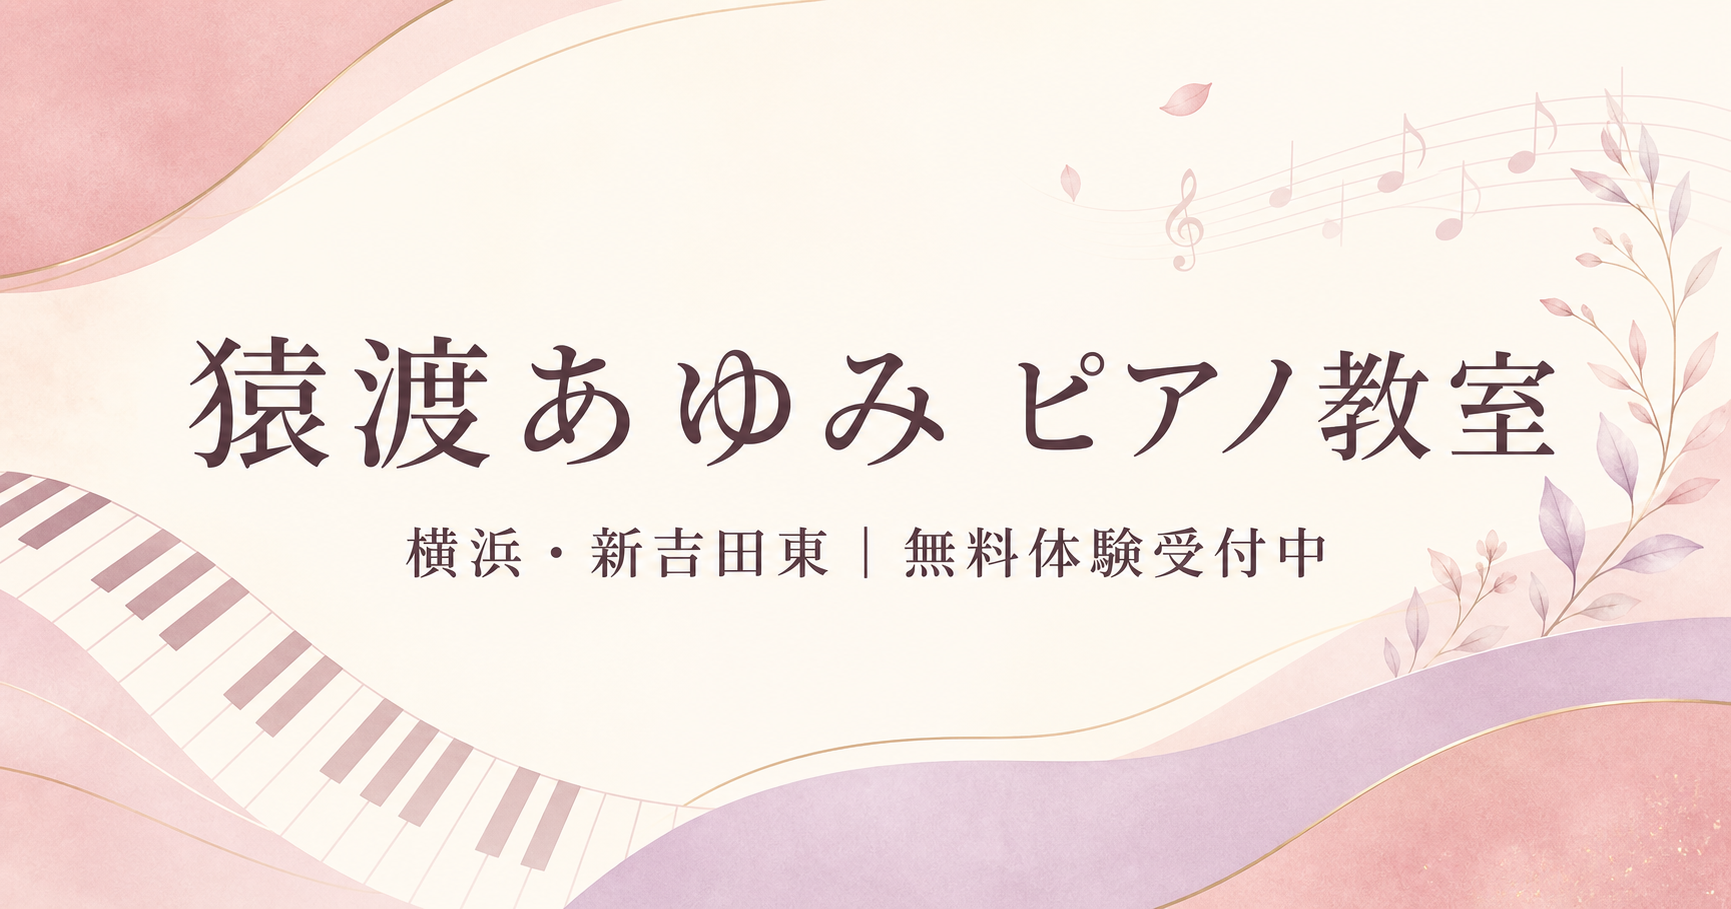
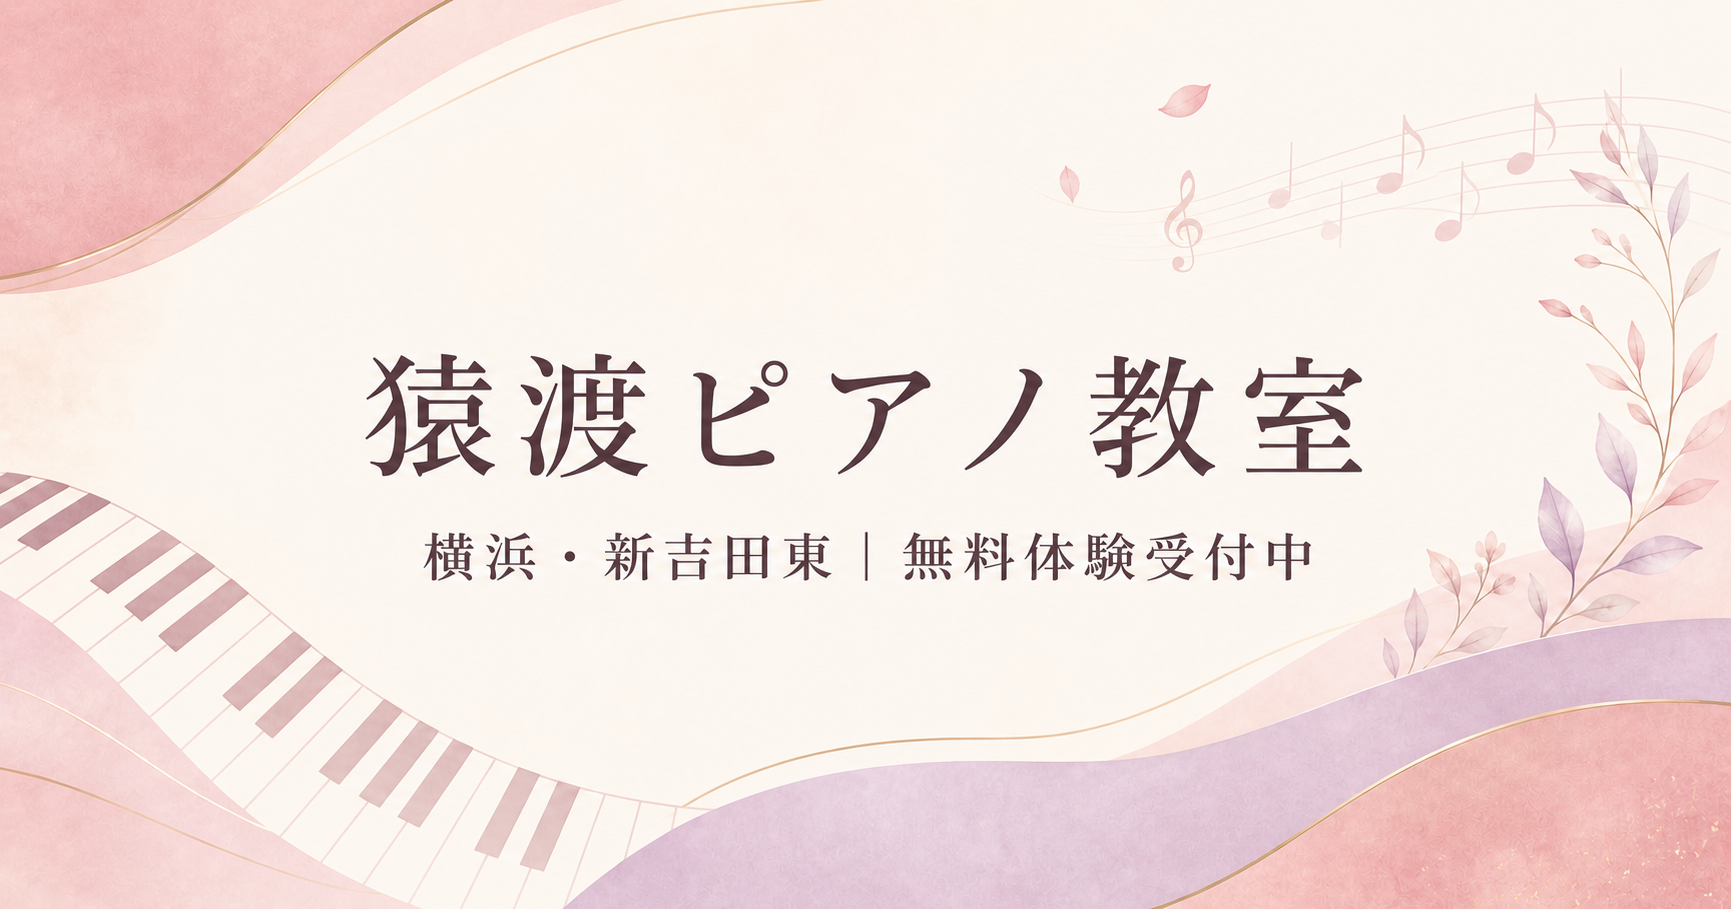
Rename the school to Saruwatari Piano School

diff --git a/app/privacy/page.tsx b/app/privacy/page.tsx
@@ -3,9 +3,9 @@ import type { Metadata } from "next";
 const siteUrl = "https://ayumi-piano-yokohama.web.app";
 
 export const metadata: Metadata = {
-  title: "プライバシーポリシー｜猿渡あゆみ ピアノ教室",
+  title: "プライバシーポリシー｜猿渡ピアノ教室",
   description:
-    "猿渡あゆみ ピアノ教室ウェブサイトにおける、個人情報とアクセス情報の取扱いについてご案内します。",
+    "猿渡ピアノ教室ウェブサイトにおける、個人情報とアクセス情報の取扱いについてご案内します。",
   alternates: { canonical: `${siteUrl}/privacy/` },
 };
 
@@ -13,9 +13,9 @@ export default function PrivacyPolicy() {
   return (
     <main className="privacy-page">
       <header className="privacy-header">
-        <a href="../" aria-label="猿渡あゆみピアノ教室のホームへ戻る">
+        <a href="../" aria-label="猿渡ピアノ教室のホームへ戻る">
           <span aria-hidden="true">♪</span>
-          猿渡あゆみ ピアノ教室
+          猿渡ピアノ教室
         </a>
       </header>
 
@@ -23,7 +23,7 @@ export default function PrivacyPolicy() {
         <p className="section-label">PRIVACY POLICY</p>
         <h1>プライバシーポリシー</h1>
         <p className="privacy-lead">
-          猿渡あゆみ ピアノ教室（以下「当教室」）は、本ウェブサイトをご利用になる方の情報を、
+          猿渡ピアノ教室（以下「当教室」）は、本ウェブサイトをご利用になる方の情報を、
           次のとおり取り扱います。
         </p>
 

diff --git a/app/page.tsx b/app/page.tsx
@@ -44,7 +44,7 @@ export default function Home() {
       <section className="print-proof-header print-only">
         <div>
           <p>WEBSITE PROOF</p>
-          <h1>猿渡あゆみ ピアノ教室　校正用プリント</h1>
+          <h1>猿渡ピアノ教室　校正用プリント</h1>
         </div>
         <dl>
           <div>
@@ -62,9 +62,9 @@ export default function Home() {
       </section>
 
       <header className="site-header">
-        <a className="brand" href="#top" aria-label="猿渡あゆみピアノ教室 ホーム">
+        <a className="brand" href="#top" aria-label="猿渡ピアノ教室 ホーム">
           <span className="brand-mark" aria-hidden="true">♪</span>
-          <span>猿渡あゆみ ピアノ教室</span>
+          <span>猿渡ピアノ教室</span>
         </a>
         <nav aria-label="メインメニュー">
           <a href="#lesson">レッスン</a>
@@ -231,7 +231,7 @@ export default function Home() {
         </div>
         <div className="location-card">
           <p className="location-label">PIANO CLASS</p>
-          <h3>猿渡あゆみ<br />ピアノ教室</h3>
+          <h3>猿渡ピアノ教室</h3>
           <dl>
             <div>
               <dt>所在地</dt>
@@ -256,7 +256,7 @@ export default function Home() {
       <footer>
         <div className="footer-brand">
           <span aria-hidden="true">♪</span>
-          <span>猿渡あゆみ ピアノ教室</span>
+          <span>猿渡ピアノ教室</span>
         </div>
         <p className="footer-info">
           <span>横浜市港北区 新吉田東4丁目</span>

diff --git a/app/layout.tsx b/app/layout.tsx
@@ -7,7 +7,7 @@ const siteUrl =
   isFirebaseHosting
     ? "https://ayumi-piano-yokohama.web.app/"
     : "https://ape36soundscape.github.io/saruwatari-pianolessonclass-yokohama/";
-const title = "猿渡あゆみ ピアノ教室｜横浜・新吉田東";
+const title = "猿渡ピアノ教室｜横浜・新吉田東";
 const description =
   "横浜市港北区新吉田東のピアノ教室。幼稚園・保育園のお子さまから大学生まで、ピアノと音符ビッツを学べます。その他の年代の方もお気軽にご相談ください。";
 
@@ -30,7 +30,7 @@ export const metadata: Metadata = {
         url: `${siteUrl}og.png`,
         width: 1731,
         height: 909,
-        alt: "猿渡あゆみ ピアノ教室｜横浜・新吉田東｜無料体験受付中",
+        alt: "猿渡ピアノ教室｜横浜・新吉田東｜無料体験受付中",
       },
     ],
   },
